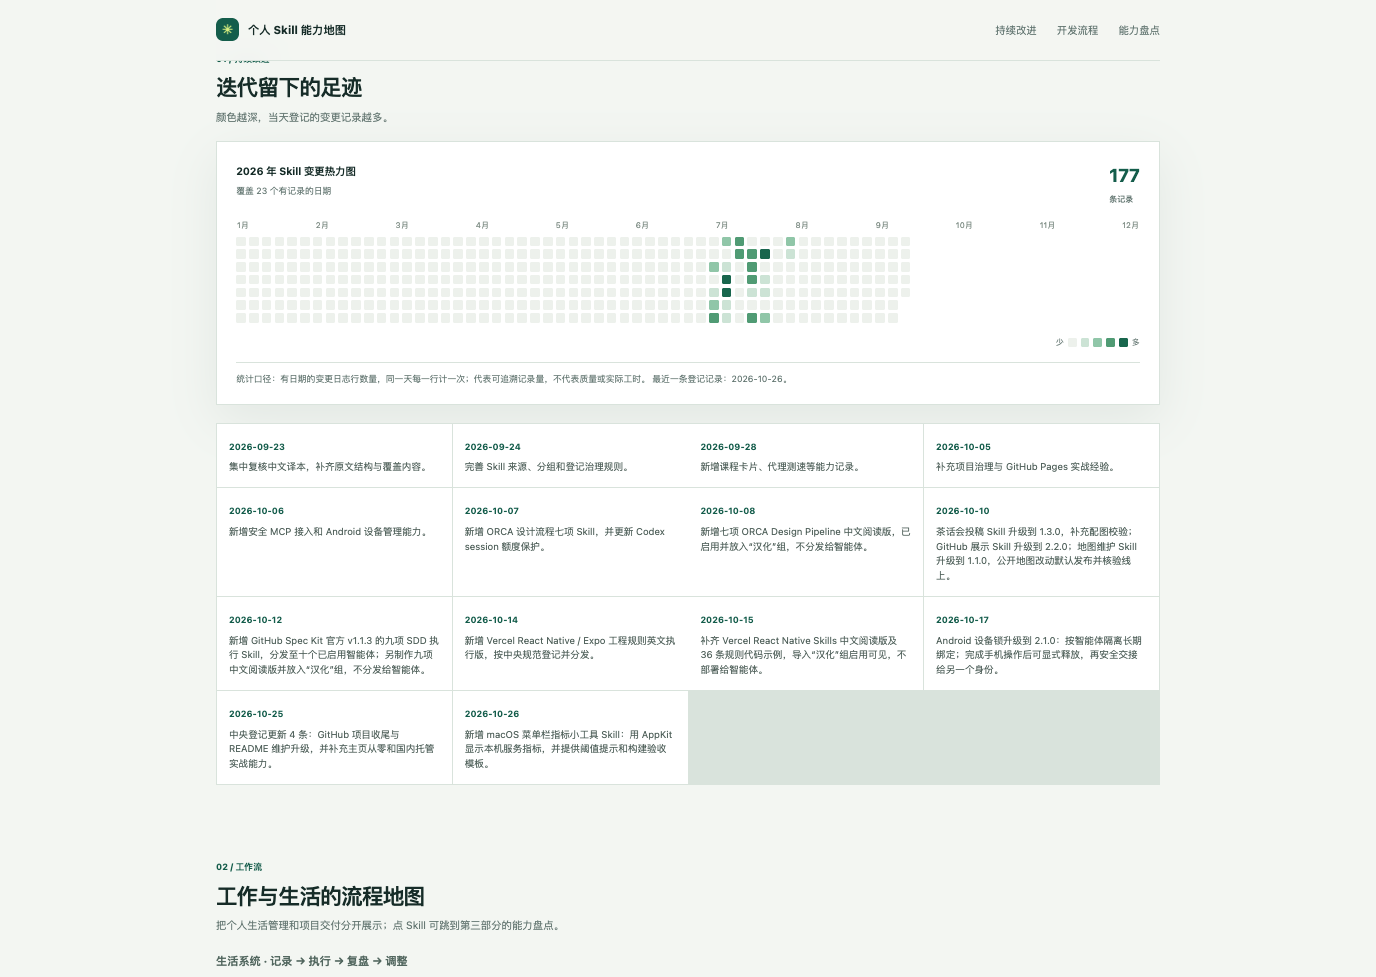
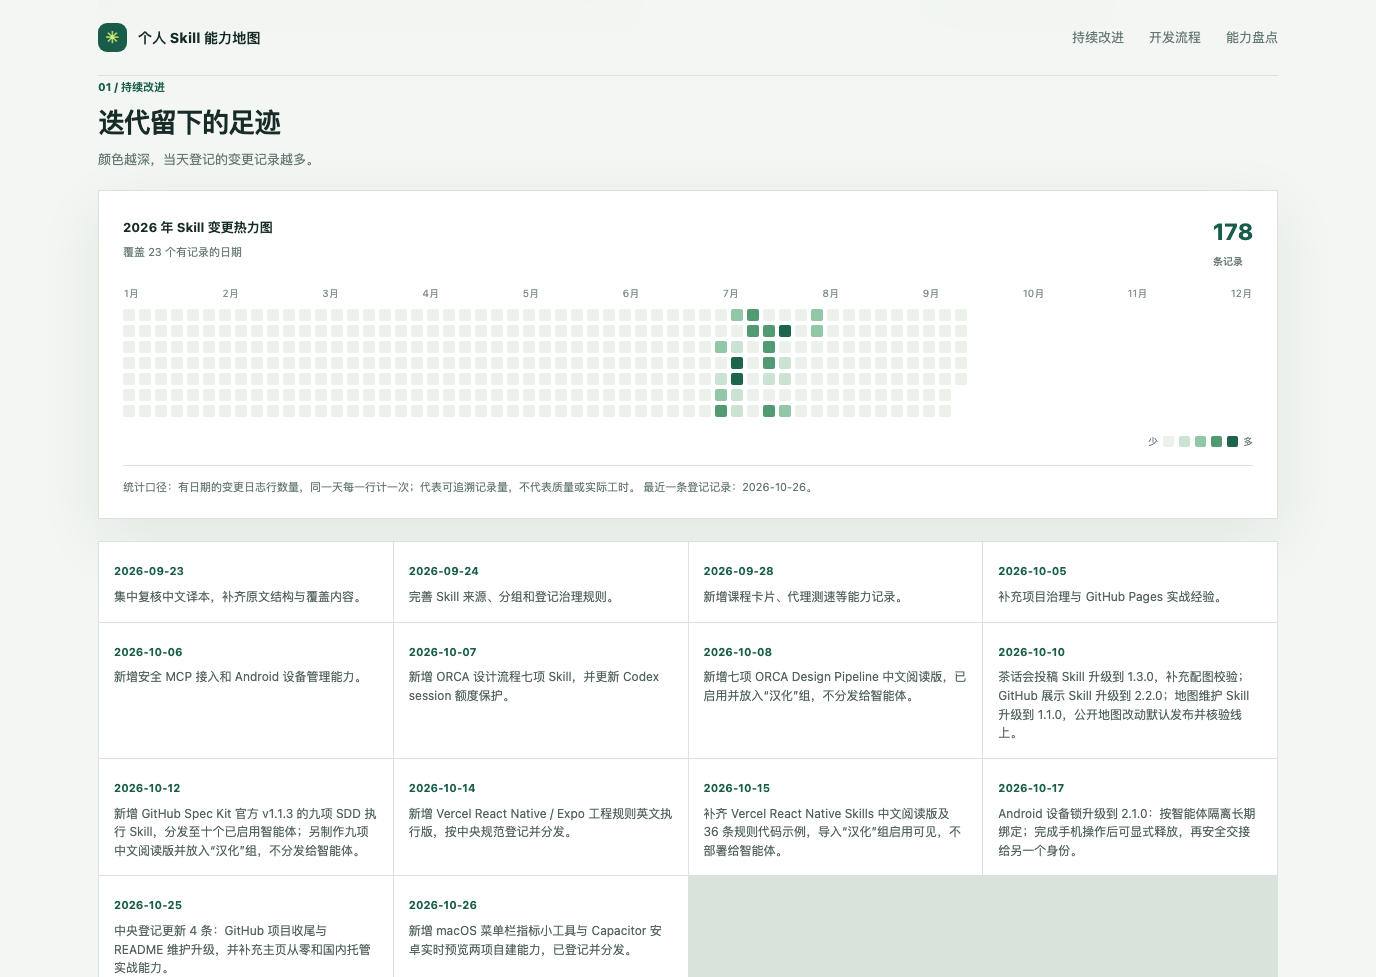
docs: add Capacitor Android live reload skill to map
Register the new self-built Skill in the public inventory, refresh source totals to 115, and update the activity record and affected README screenshots.

diff --git a/index.html b/index.html
@@ -119,7 +119,7 @@
     }
     document.getElementById('heatMonths').innerHTML=['1月','2月','3月','4月','5月','6月','7月','8月','9月','10月','11月','12月'].map(x=>`<span>${x}</span>`).join('');
     const dated=[...data.events].sort((a,b)=>b.date.localeCompare(a.date));const latest=dated[0]?.date||'—';document.getElementById('heatCaption').textContent=`统计口径：${data.countDefinition} 最近一条登记记录：${latest}。`;
-    const highlights=[['2026-09-23','集中复核中文译本，补齐原文结构与覆盖内容。'],['2026-09-24','完善 Skill 来源、分组和登记治理规则。'],['2026-09-28','新增课程卡片、代理测速等能力记录。'],['2026-10-05','补充项目治理与 GitHub Pages 实战经验。'],['2026-10-06','新增安全 MCP 接入和 Android 设备管理能力。'],['2026-10-07','新增 ORCA 设计流程七项 Skill，并更新 Codex session 额度保护。'],['2026-10-08','新增七项 ORCA Design Pipeline 中文阅读版，已启用并放入“汉化”组，不分发给智能体。'],['2026-10-10','茶话会投稿 Skill 升级到 1.3.0，补充配图校验；GitHub 展示 Skill 升级到 2.2.0；地图维护 Skill 升级到 1.1.0，公开地图改动默认发布并核验线上。'],['2026-10-12','新增 GitHub Spec Kit 官方 v1.1.3 的九项 SDD 执行 Skill，分发至十个已启用智能体；另制作九项中文阅读版并放入“汉化”组，不分发给智能体。'],['2026-10-14','新增 Vercel React Native / Expo 工程规则英文执行版，按中央规范登记并分发。'],['2026-10-15','补齐 Vercel React Native Skills 中文阅读版及 36 条规则代码示例，导入“汉化”组启用可见，不部署给智能体。'],['2026-10-17','Android 设备锁升级到 2.1.0：按智能体隔离长期绑定；完成手机操作后可显式释放，再安全交接给另一个身份。'],['2026-10-25','中央登记更新 4 条：GitHub 项目收尾与 README 维护升级，并补充主页从零和国内托管实战能力。'],['2026-10-26','新增 macOS 菜单栏指标小工具 Skill：用 AppKit 显示本机服务指标，并提供阈值提示和构建验收模板。']];
+    const highlights=[['2026-09-23','集中复核中文译本，补齐原文结构与覆盖内容。'],['2026-09-24','完善 Skill 来源、分组和登记治理规则。'],['2026-09-28','新增课程卡片、代理测速等能力记录。'],['2026-10-05','补充项目治理与 GitHub Pages 实战经验。'],['2026-10-06','新增安全 MCP 接入和 Android 设备管理能力。'],['2026-10-07','新增 ORCA 设计流程七项 Skill，并更新 Codex session 额度保护。'],['2026-10-08','新增七项 ORCA Design Pipeline 中文阅读版，已启用并放入“汉化”组，不分发给智能体。'],['2026-10-10','茶话会投稿 Skill 升级到 1.3.0，补充配图校验；GitHub 展示 Skill 升级到 2.2.0；地图维护 Skill 升级到 1.1.0，公开地图改动默认发布并核验线上。'],['2026-10-12','新增 GitHub Spec Kit 官方 v1.1.3 的九项 SDD 执行 Skill，分发至十个已启用智能体；另制作九项中文阅读版并放入“汉化”组，不分发给智能体。'],['2026-10-14','新增 Vercel React Native / Expo 工程规则英文执行版，按中央规范登记并分发。'],['2026-10-15','补齐 Vercel React Native Skills 中文阅读版及 36 条规则代码示例，导入“汉化”组启用可见，不部署给智能体。'],['2026-10-17','Android 设备锁升级到 2.1.0：按智能体隔离长期绑定；完成手机操作后可显式释放，再安全交接给另一个身份。'],['2026-10-25','中央登记更新 4 条：GitHub 项目收尾与 README 维护升级，并补充主页从零和国内托管实战能力。'],['2026-10-26','新增 macOS 菜单栏指标小工具与 Capacitor 安卓实时预览两项自建能力，已登记并分发。']];
     document.getElementById('recent').innerHTML=highlights.map(([date,text])=>`<article><time>${date}</time><p>${escapeHtml(text)}</p></article>`).join('');
   }
   load().catch(err=>{document.getElementById('skillRows').innerHTML=`<tr><td colspan="5" class="empty">${escapeHtml(err.message)}。请稍后刷新页面。</td></tr>`;document.getElementById('heatSub').textContent='迭代记录暂时不可用'});

diff --git a/README.en.md b/README.en.md
@@ -24,11 +24,11 @@ Domains include life management, travel, requirements, project collaboration, UI
 
 ## Public data snapshot
 
-The public page reflects a data snapshot from **2026-10-26**, with 114 registered Skills. Translations and their English originals are listed separately. Community contributions and entries with unverified sources are labeled “Community / Unverified.”
+The public page reflects a data snapshot from **2026-10-26**, with 115 registered Skills. Translations and their English originals are listed separately. Community contributions and entries with unverified sources are labeled “Community / Unverified.”
 
 | Source | Count | Description |
 | --- | ---: | --- |
-| Self-built | 43 | Original skills and practical experience captured for reuse |
+| Self-built | 44 | Original skills and practical experience captured for reuse |
 | Official upstream | 44 | Skills from official product or project repositories |
 | Community / Unverified | 27 | Community contributions or entries whose source has not been confirmed |
 

diff --git a/README.md b/README.md
@@ -24,11 +24,11 @@
 
 ## 当前公开数据
 
-公开页面的数据快照截至 **2026-10-26**，共登记 114 个 Skill。翻译版与英文原版作为独立条目展示；社区作品和来源尚未确认的条目归入“社区 / 待核验”。
+公开页面的数据快照截至 **2026-10-26**，共登记 115 个 Skill。翻译版与英文原版作为独立条目展示；社区作品和来源尚未确认的条目归入“社区 / 待核验”。
 
 | 来源 | 数量 | 说明 |
 | --- | ---: | --- |
-| 自建 | 43 | 原创或实操经验沉淀 |
+| 自建 | 44 | 原创或实操经验沉淀 |
 | 官方上游 | 44 | 来自产品或项目的官方仓库 |
 | 社区 / 待核验 | 27 | 外部社区作品或来源尚未确认 |
 
